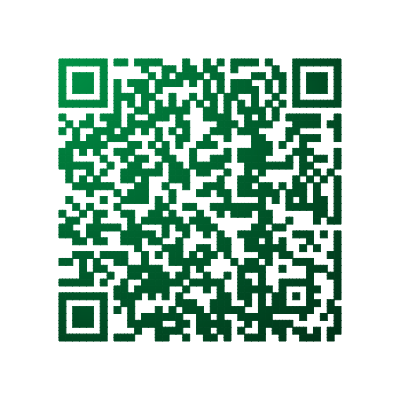
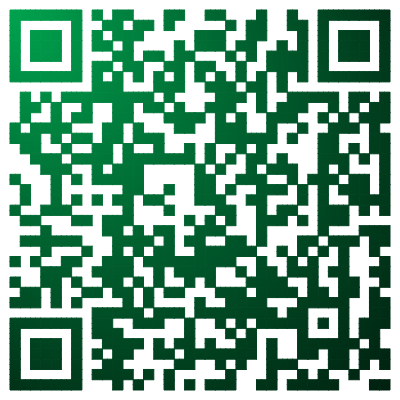
qr img

diff --git a/README.md b/README.md
@@ -3,11 +3,11 @@
 
 #Demo:
 
-[Swipeable Tab](http://htmlpreview.github.io/?https://github.com/YopheeHsin/swipeable-tab/blob/master/demo.html)
+[Swipeable Tab](http://yopheehsin.github.io/demo/swipeable-tab/)
 
 移动端扫码访问：
 
-<img src="https://github.com/YopheeHsin/swipeable-tab/blob/master/img/qr.png" alt="Swipeable Tab" width="200">
+<img src="http://yopheehsin.github.io/demo/swipeable-tab/img/qr.png" alt="Swipeable Tab" width="200">
 
 
 ##Thanks
